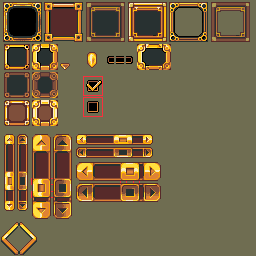
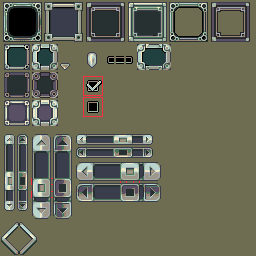
Converted the UI colors to a silver+green tone instead of gold+maroon.

Changed region(s): [[0.0, 0.0, 1.0, 1.0], [0.3438, 0.3125, 0.4062, 0.4375]]

diff --git a/src/speech_dialog.cpp b/src/speech_dialog.cpp
@@ -267,7 +267,7 @@ void SpeechDialog::draw() const
 	if(module::get_speech_dialog_bg_color()) {
 		canvas->drawSolidRect(pane_area_, *module::get_speech_dialog_bg_color());
 	} else {
-		canvas->drawSolidRect(pane_area_, KRE::Color(85, 53, 53, 255));
+		canvas->drawSolidRect(pane_area_, KRE::Color(56, 59, 74, 255));
 	}
 	top_corner->blit(pane_area_.x() - top_corner->width(), pane_area_.y() - top_corner->height());
 	top_corner->blit(pane_area_.x2()-1, pane_area_.y() - top_corner->height(), -top_corner->width(), top_corner->height());
@@ -326,7 +326,7 @@ void SpeechDialog::draw() const
 				continue;
 			}
 
-			KRE::Color draw_color(markup[m].color ? *markup[m].color : KRE::Color(255,187,10,255));
+			KRE::Color draw_color(markup[m].color ? *markup[m].color : KRE::Color(196,216,159,255));
 			const rect r = font->draw(text_left_align[n] + xadj, ypos - 2, std::string(str.begin() + begin_index, str.begin() + end_index), 2, draw_color);
 			xadj += r.w();
 		}

diff --git a/src/module.cpp b/src/module.cpp
@@ -401,7 +401,7 @@ namespace module
 		variant v = json::parse_from_file_or_die(fname);
 		std::string def_font = "FreeSans";
 		std::string def_font_cjk = "unifont";
-		auto speech_dialog_bg_color = std::make_shared<KRE::Color>(85, 53, 53, 255);
+		auto speech_dialog_bg_color = std::make_shared<KRE::Color>(56, 59, 74, 255);
 		variant player_type;
 
 		const std::string constants_path = make_base_module_path(name) + "data/constants.cfg";
